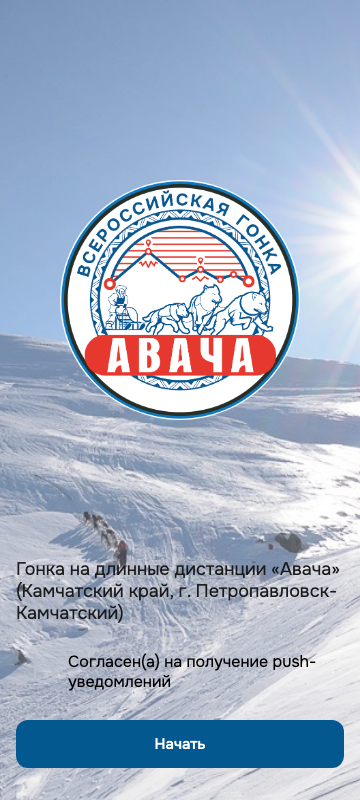
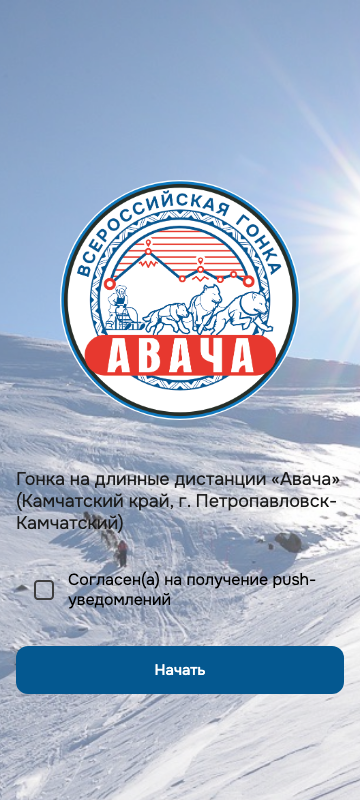
fix(v2): старт, чекбокс и позиция формы

Changed region(s): [[0.0306, 0.5938, 0.9778, 0.9688]]

diff --git a/src/index.css b/src/index.css
@@ -20,6 +20,9 @@ body {
   --start-screen-inline: 16px;
   --start-logo-top: 180px;
   --start-logo-size: 240px;
+  --start-form-gap: 24px;
+  --start-form-offset: 48px;
+  --start-form-top: calc(var(--start-logo-top) + var(--start-logo-size) + var(--start-form-offset));
 }
 
 .app-frame {
@@ -142,20 +145,33 @@ body {
 .start-screen__form {
   position: absolute;
   z-index: 2;
+  top: var(--start-form-top);
   right: var(--start-screen-inline);
-  bottom: calc(32px + env(safe-area-inset-bottom, 0px));
   left: var(--start-screen-inline);
   display: flex;
   flex: none;
   flex-direction: column;
   align-items: stretch;
-  gap: 16px;
+  gap: var(--start-form-gap);
   box-sizing: border-box;
   width: auto;
 }
 
 .start-screen__form .start-screen__consent {
   align-self: stretch;
+}
+
+.start-screen__consent .vkuiCheckboxInput__host {
+  color: var(--avacha-brand-dark-blue);
+}
+
+.start-screen__consent .vkuiCheckboxInput__iconOff {
+  display: block;
+  color: #3d3d3d;
+}
+
+.start-screen__consent .vkuiCheckboxInput__iconOn {
+  color: var(--avacha-brand-dark-blue);
 }
 
 .start-screen__title {
